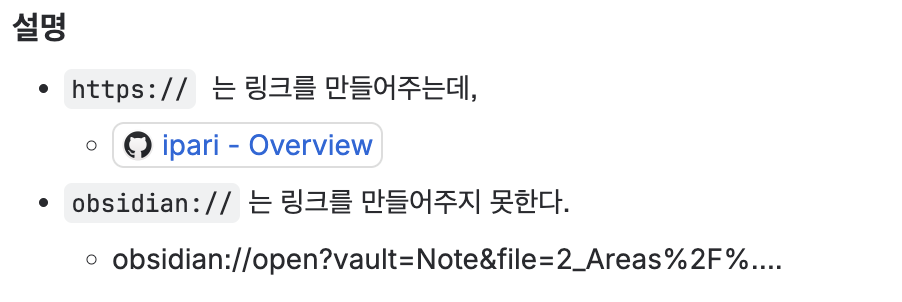
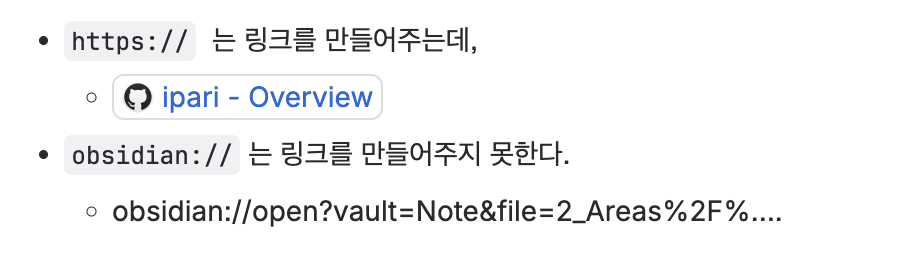
Refine first vibe coding conclusion

diff --git a/_posts/2026-07-19-first-vibe-coding.md b/_posts/2026-07-19-first-vibe-coding.md
@@ -1,73 +1,86 @@
 ---
-title: 첫 바이브 코딩 for FOMO 극복
+title: FOMO 극복을 위한 첫 바이브 코딩
 date: 2026-07-19 00:00:00 +0900
 categories: [연재, 1인 개발 이야기]
 tags: [AI, 개발]
 description: 바이브 코딩에 뒤처질지 모른다는 불안에서 시작해 개인용 URL 단축기를 만든 이야기
 ---
 
+작동하는 프로토타입은 3분 만에 나왔다. 핵심 기능을 완성하는 데는 30분이 걸렸고, 내가 매일 사용할 만한 제품으로 다듬는 데는 3시간이 더 필요했다.
+
+바이브 코딩에 뒤처지고 있다는 불안 때문에 시작한 작업은 AI 시대에도 사람이 해야 할 일이 무엇인지 확인하는 경험이 되었다.
+
 ## 바이브 코딩 FOMO
 
-요즘 스레드나 링크드인을 보면 어디서나 '바이브 코딩'이라는 단어가 보인다. AI와 대화하며 아이디어를 실제로 동작하는 결과물로 만든 후기가 끊이지 않는다.
+기획, 디자인, 개발을 모두 할 수 있다는 것이 나의 강점이었다. 그런데 AI가 이 모든 일을 빠르게 해내기 시작하면서 내 강점이 사라질 수도 있겠다는 걱정이 들었다.
 
-나의 강점은 기획, 디자인, 개발까지 올인원으로 가능하다는 것인데, 이게 AI 시대가 되며 빛을 잃는 게 아닐까 하는 걱정이 들었다. 육아휴직 중이라 하루의 대부분을 육아에 쓰고 있기에 바이브 코딩마저 뒤처지는 게 아닌가 싶어 FOMO가 찾아올 것만 같았다.
+그런 와중에 육아휴직 중이라 하루의 대부분을 육아에 쓰고 있었다. 다른 사람들이 바이브 코딩으로 무언가를 만들고 공유하는 것을 보며 나만 뒤처지는 것 같았다. FOMO가 찾아오기 시작한 것이다.
 
-하지만 마침내 육아 시스템도 구축하고 아이의 생활 패턴도 잡아서 하루에 몇 시간은 작업할 수 있는 시간이 생겼다. 그렇게 FOMO 극복을 위한 첫 바이브 코딩을 시작하게 되었다.
+최근 육아 시스템이 완성되고 아이의 생활 패턴이 안정되면서 하루 중 일정 시간 작업을 할 수 있게 되었다. 그렇게 첫 바이브 코딩을 시작하게 되었다.
 
 
-## 무엇을 만들까?
+## 실제로 사용할 것을 만들자
 
-바이브 코딩 자체를 경험하는 것이 목적이지만 아무 의미 없는 프로젝트를 만들고 싶지는 않았다. 내가 실제로 사용할 작은 도구를 만들고 싶었다.
+바이브 코딩 자체를 경험하는 것이 목적이었지만, 아무 의미 없는 프로젝트를 만들고 싶지는 않았다. 작더라도 내가 실제로 사용할 도구를 만들고 싶었다.
 
 고민 끝에 bit.ly와 같은 URL 단축기를 개인용으로 만들기로 했다.
 
-나는 개인 일감은 Jira로 관리하고 문서는 Obsidian으로 작성한다. 그런데 Jira에서는 `obsidian://` 프로토콜을 링크로 만들어주지 않아 일감과 문서를 연결하기 번거로웠다. 그래서 `obsidian://` 프로토콜을 `https://` 단축 URL로 만들고, 이 주소를 Jira에 연결하는 지극히 개인적인 필요가 있었다.
+나는 개인 일감은 Jira로 관리하고 문서는 Obsidian으로 작성한다. 이때 가장 불편한 점은 Jira의 본문에서 `obsidian://` 주소가 링크로 만들어지지 않는다는 점이다. 일감과 관련된 Obsidian 문서를 연결할 때마다 주소를 복사해 별도로 열어야 하는 번거로움이 있었다.
+
+`obsidian://` 주소를 `https://` 단축 주소로 바꿔 Jira에 연결하면 이 문제를 해결할 수 있을 것 같았다. 지극히 개인적인 문제였지만, 작업의 동기부여가 되기에는 충분했다.
 
 ![Jira에서 Obsidian 링크를 연결할 때의 문제](/assets/img/2026/2026-first-vibe-coding-problem.png)
 
 
-## 작업
+## 3분 만에 나온 프로토타입
 
-### 첫 시작
-
-다음과 같은 프롬프트로 처음 시작했다. 작동하는 프로토타입이 3분 20초 만에 나오는 것이 놀라웠다.[^1]
+내가 원하는 기능을 Codex에게 전달했다. 첫 바이브 코딩이라 내가 결과를 직접 검토할 수 있도록 익숙한 기술 스택을 사용해달라고 요청했다.
 
 ![첫 바이브 코딩을 시작한 프롬프트](/assets/img/2026/2026-first-vibe-coding-prompt.png)
 
-처음에는 `obsidian://` 프로토콜을 부적절한 프로토콜이라며 거부했다. 프로토콜 허용 방식을 기존의 `http(s)://`만 허용하던 allowlist 방식에서 특정 프로토콜만 차단하는 denylist 방식으로 수정했다.
+프롬프트를 입력한 지 3분 만에 작동하는 프로토타입이 나왔다. 심지어 디자인도 어느 정도 완성된 상태였다.
 
-Codex의 삽질로 인한 시간 허비도 있었다.기존 서버 프로세스를 종료하지 않아서 작업 내용이 반영 안되는 것을, 코드 버그로 인식하여 수차례 재작업했다. 추가적으로 불필요하게 작업한 코드를 찾아내어 제거하는데 20분의 시간을 써야했다. 구현시간의 대부분은 여기에 쓴 셈.
+물론 내가 원하던 기능이 처음부터 모두 제대로 작동한 것은 아니었다. 서비스는 보안을 이유로 `obsidian://` 주소를 거부했다. Allowlist 대신 Denylist 방식으로 수정하여 보안에 치명적인 프로토콜이 아니면 허용하도록 했다.
 
-이후에는 테스트를 반복하며 UX를 개선해나갔다.
+## AI도 삽질한다
 
-- 생성된 단축 URL을 클립보드로 복사하는 기능
-- 중복 URL 처리
-- 다크모드 추가
-- 모바일 가독성 고려
-- 정보와 버튼의 배치
-- UI 간격과 라운딩 조정
-- 아이콘 생성
-- 자잘한 UI 튜닝
-- ...
+작업 과정에서 AI 때문에 시간을 허비하기도 했다.
 
-### 결과물
+Codex가 기존 Flask 서버를 종료하지 않은 채 새로운 서버를 계속 실행하는 일이 있었다. Codex는 수정한 내용이 반영되지 않는 이유를 코드 버그라고 생각하며 계속 코드만 수정했다. 내가 프로세스 문제가 아니냐며 지적하자 그제서야 원인을 올바르게 찾았다.
 
-개인 서버에 배포하여 실제로 잘 쓰게 되었다.
+이후 문제 해결을 위해 불필요하게 추가한 코드를 찾아 제거해야 했다. 여기에만 20분 정도를 사용했다. 첫 프로토타입은 3분 만에 나왔지만, 이 삽질 때문에 핵심 기능을 완성하는 데 총 30분이 걸리게 되었다.
+
+~~(내 토큰 돌려줘....)~~
+
+![AI의 삽질](/assets/img/2026/2026-first-vibe-coding-error.png)
+
+## 딸깍 이후의 세 시간
+
+매일 사용할 도구였기에 쓰기 편하고 보기도 좋게 만들고 싶었다.
+
+생성된 주소를 클립보드로 바로 복사할 수 있게 만들고, 같은 주소를 여러 번 등록했을 때의 처리 방식도 정했다. 휴대폰에서도 쉽게 사용할 수 있도록 레이아웃을 정리하고, 다크 모드도 추가했다. 정보와 버튼의 위치를 바꾸고, UI 사이의 간격과 라운딩도 일관성 있게 조정했다. 버튼의 텍스트를 아이콘으로 교체하여 화면 공간도 확보했다. UX를 하나하나 개선하다보니 세 시간이 더 지나갔다.
+
+첫 프로토타입을 만드는 데는 3분이 걸렸고, 기능이 의도대로 작동하는데는 30분이 걸렸지만, 내가 실제로 사용하기 편한 제품으로 완성하는 데는 3시간이 필요했다.
+
+서비스는 개인 서버에 배포하여 실제로 잘 쓰게 되었다.
 
 ![완성한 개인용 URL 단축기 Shortly](/assets/img/2026/2026-first-vibe-coding-shortly.png)
 
-[^1]: 언리얼 엔진에서 Claude Code를 사용할 때는 작업 하나를 돌리는 데 긴 시간이 걸렸기 때문이다. 게임은 코드량이 방대해서 그런 게 아닌가 싶다.
+## 첫 바이브 코딩에 대한 소감
 
+직접 해보니 바이브 코딩은 완전히 새로운 작업 방식이라기 보다 협업의 대상이 AI로 바뀐 것에 가까웠다.
 
-## 마치며
+기획자 입장에서는 다른 기획자, 디자이너, 프로그래머와 늘 하던 협업을 단지 AI와 하게 된 것뿐이다. 무엇을 만들지 정하고, 결과가 의도대로 작동하는지 확인하고, 사람이 사용하기 편한지 판단하는 것은 여전히 사람의 몫이다.
 
-직접 해보니 바이브 코딩 그 자체는 별것 아니었다. "무엇을 만들 것인가"라는 본질적인 사고가 더 중요하다는 생각이 들었다. 누구나 빠르게 기능을 만들 수 있기에, 기존에 없던 새로운 가치를 제공하기는 오히려 더 어려워졌기 때문이다.
+누구나 제품을 빠르게 만들 수 있게 된 만큼 무엇을 만들 것인지 결정하는 능력은 더 중요해졌다. 만드는 비용은 낮아졌지만, 기존에 없던 가치를 발견하고 좋은 제품으로 완성하는 일까지 쉬워진 것은 아니다.
 
-그리고 결과물을 두고 단순히 "딸깍" 했다고 말하는 사람들은 걸러서 봐야겠다. 기능이 작동하도록 만드는 데는 30분이 걸렸지만, 사용하기도 좋고 보기도 좋은 UX를 만들기까지는 3시간이 더 필요했다. 도구가 만드는 속도는 빨라졌지만, 좋은 결과물을 판단하고 완성하는 일은 여전히 사람의 몫이었다.
+바이브 코딩을 단순히 딸깍이라고 표현하는 것은 시작 이후의 과정을 생략한다. 딸깍 한 번으로 시작은 할 수 있지만, 결과물을 직접 사용하고 문제를 발견하며 끝까지 다듬는 과정은 여전히 긴 여정이기 때문이다.
 
 
 ### 덧붙임: Jira 팁
 
-나중에 알게 된 사실이 하나 있다. Jira 이슈에 별도 필드로 만들면 `https://` 이외의 프로토콜도 자동으로 링크가 걸린다.
+프로젝트를 완성한 뒤 알게 된 사실이 있다. Jira 이슈에 별도 필드를 만들면 `https://` 이외의 프로토콜도 자동으로 링크가 걸린다는 것이다.
+
+이 문제만 놓고 보면 이 프로젝트는 필요하지 않았을 수도 있겠다. 하지만 FOMO 극복을 위한 첫 바이브 코딩의 주제로는 역할을 충분히 했다고 생각한다.
 
 ![Jira의 Obsidian 링크 필드](/assets/img/2026/2026-first-vibe-coding-jira-tip.png)
